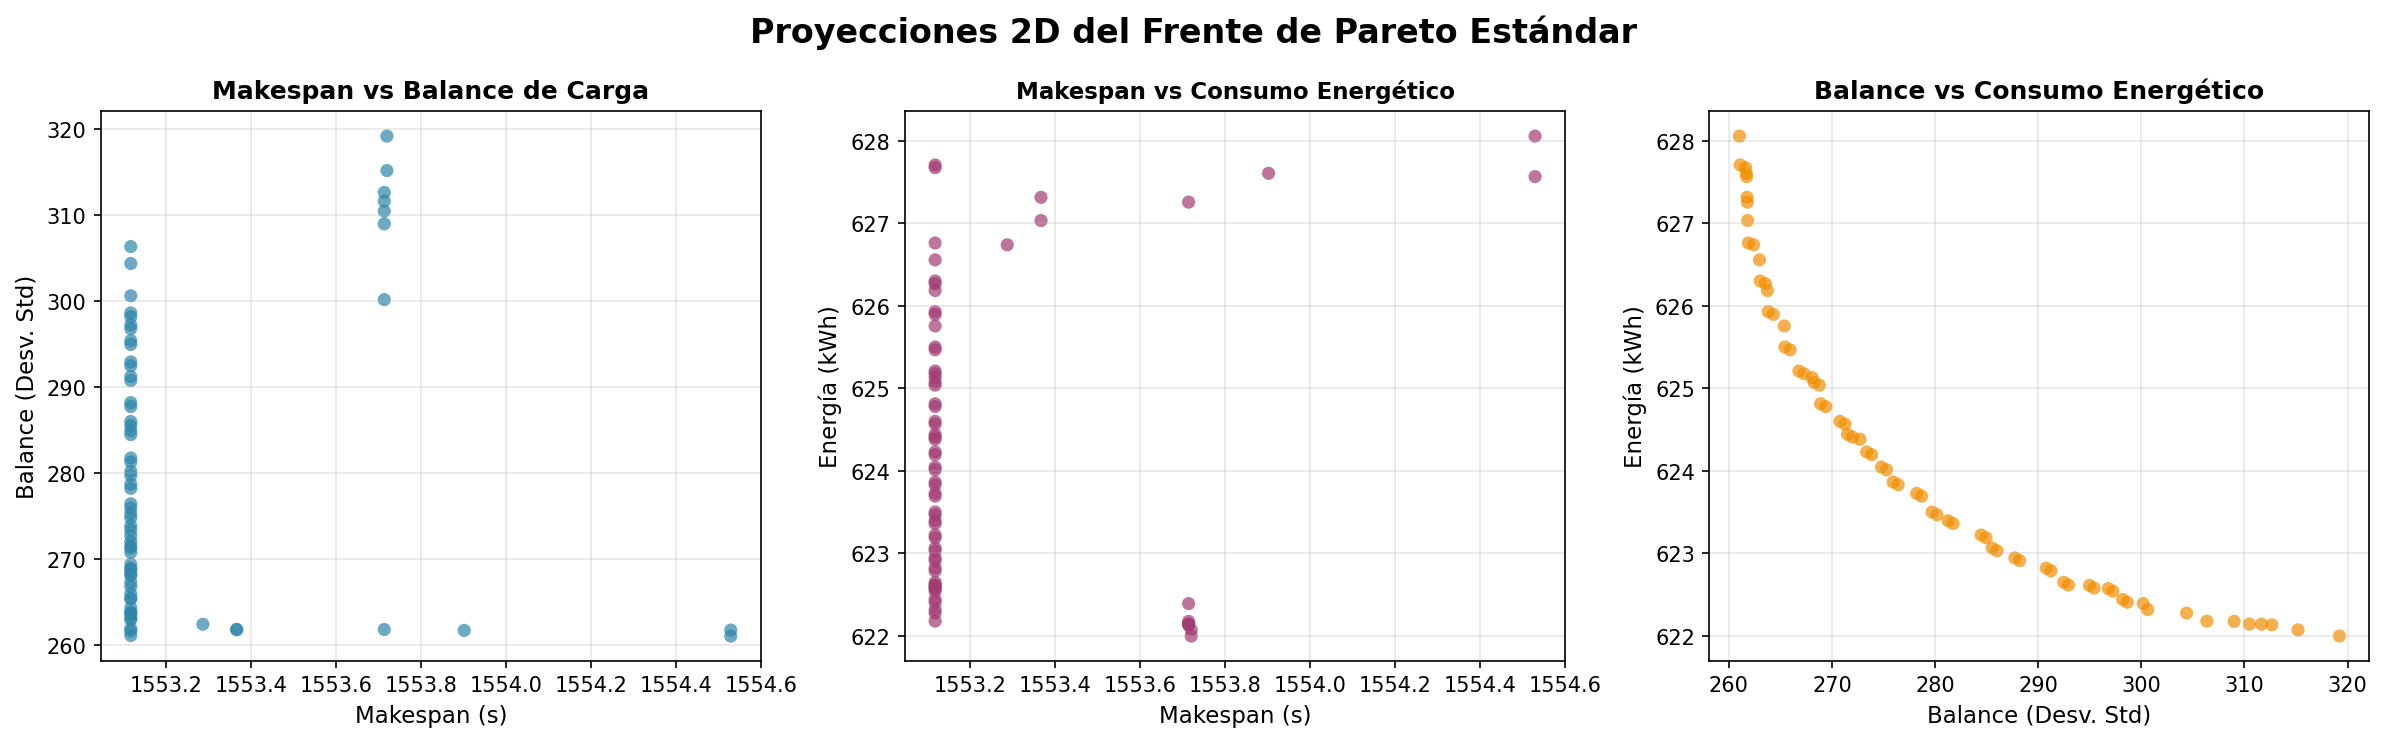
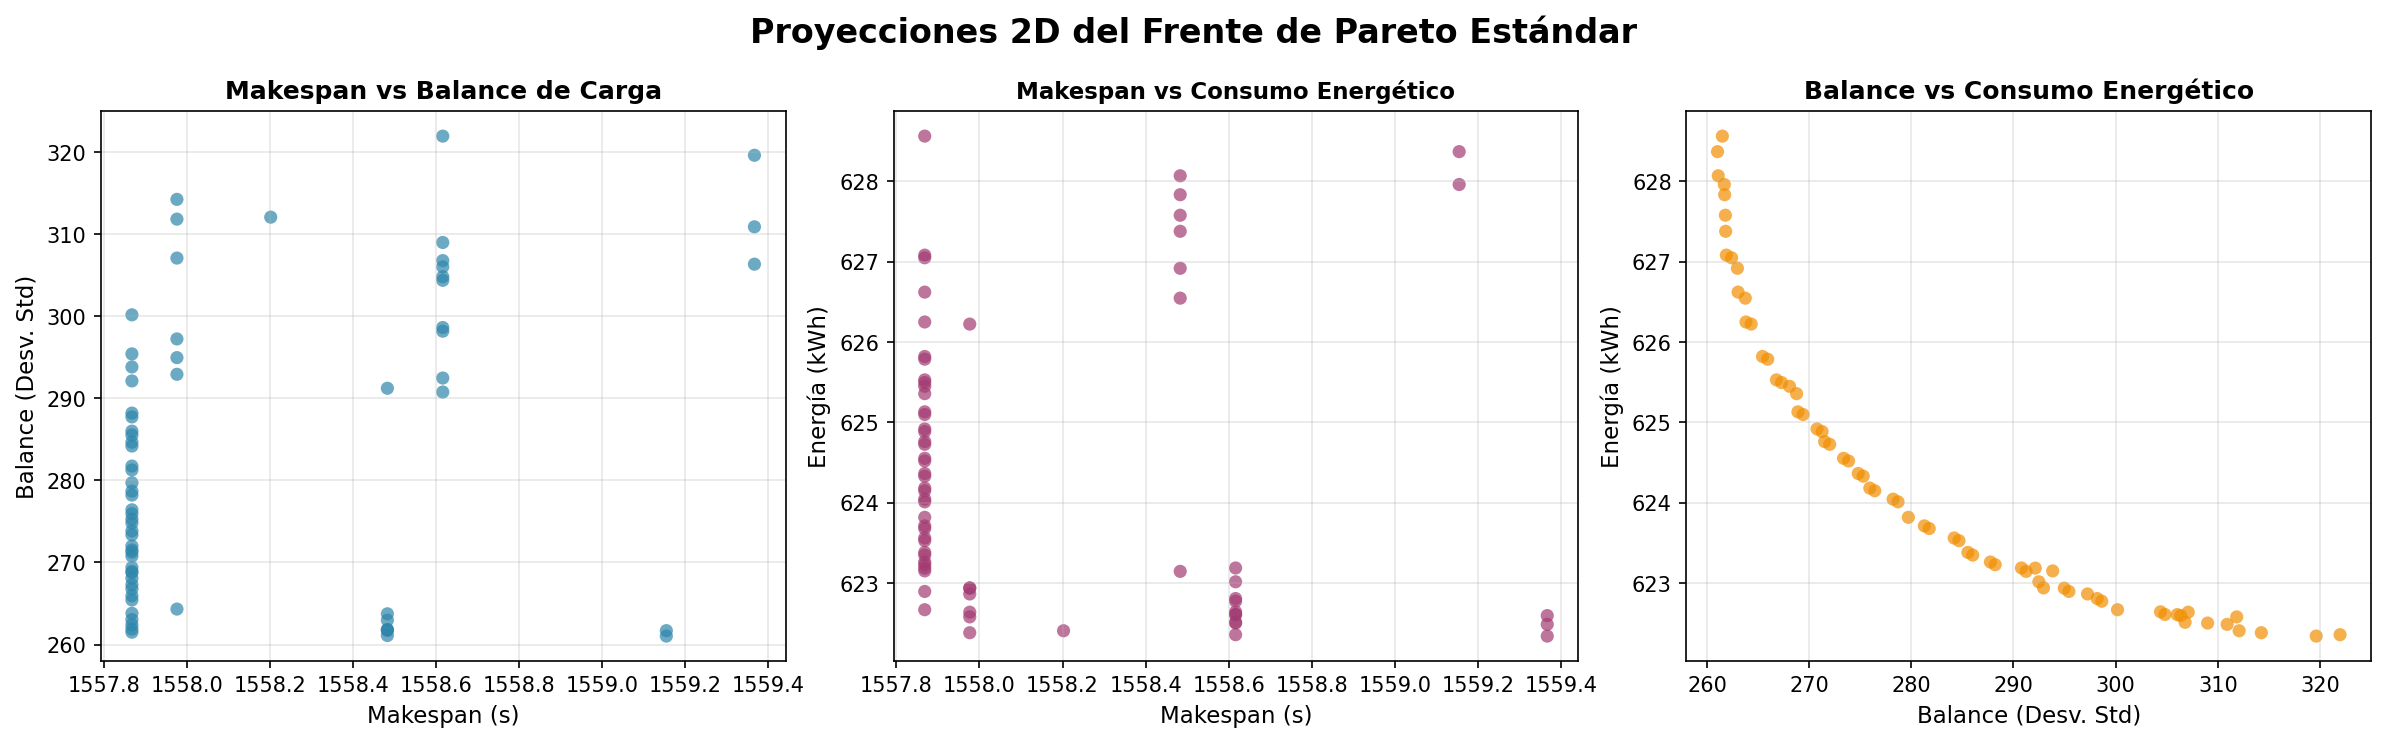
Actualización del informe de tesis con un enfoque en el desarrollo y optimización de algoritmos evolutivos multiobjetivo. Se detalla la implementación de NSGA-II y su variante memética, así como las optimizaciones de vectorización con NumPy que lograron una reducción del 56.7% en el tiempo de ejecuc

diff --git a/INFORME_DE_TESIS_3/Chapters/Cap5.tex b/INFORME_DE_TESIS_3/Chapters/Cap5.tex
@@ -18,13 +18,13 @@ Este proyecto de tesis ha logrado establecer una base sólida para la implementa
 
 \item[•] La comparación exhaustiva de operadores demostró que la combinación de cruce uniforme y mutación swap proporciona los mejores resultados en términos de calidad del frente de Pareto y robustez estadística.
 
-\item[•] La versión memética del NSGA-II muestra mejoras moderadas pero consistentes (0.11\% en score agregado) sobre la versión estándar, justificando el overhead computacional del 10.22\% para aplicaciones donde la calidad es prioritaria.
+\item[•] La comparación entre NSGA-II estándar y memético reveló que, aunque la versión memética muestra mejoras marginales (0.11\% en score agregado), la versión estándar es más eficiente (14.0\% más rápida) con calidad prácticamente idéntica (diferencia de score: -0.02\%). El overhead computacional del 16.3\% de la versión memética no se justifica por la mejora marginal en calidad, por lo que se recomienda la versión estándar para aplicaciones donde el balance entre calidad y tiempo de ejecución es prioritario.
 
-\item[•] Las optimizaciones implementadas (caché de fitness, filtrado de similitud, clasificación adaptativa, búsqueda local selectiva) lograron reducir el tiempo de ejecución en aproximadamente 60\%, de ~60 segundos a ~25 segundos por ejecución.
+\item[•] Las optimizaciones implementadas se dividen en dos fases: (1) optimizaciones algorítmicas iniciales (caché de fitness, clasificación adaptativa, búsqueda local selectiva) que redujeron el tiempo de ~60 segundos a ~27 segundos, y (2) optimizaciones de vectorización con NumPy (clasificación no dominada, filtro epsilon, distancia crowding) que lograron una reducción adicional del 56.7\%, alcanzando un tiempo promedio de 11.5 segundos (estabilizado en ~10.7s después del warm-up), mejorando significativamente la eficiencia computacional.
 
 \item[•] El sistema de paralelización de experimentos permite ejecutar experimentos masivos de manera eficiente y reproducible, facilitando la validación estadística de los resultados mediante múltiples semillas independientes.
 
-\item[•] El estudio de ablación realizado validó científicamente que cada componente del algoritmo (filtro epsilon, búsqueda local, operadores genéticos) contribuye positivamente al rendimiento. El filtro epsilon mejora la calidad en 0.32\% con un overhead de solo 2.33\%, mientras que la búsqueda local aporta refinamiento con un overhead del 3.03\%.
+\item[•] El estudio de ablación realizado validó científicamente que cada componente del algoritmo contribuye al rendimiento. El filtro epsilon mejora la calidad en 0.23\% (NSGA-II estándar) y 0.31\% (memético) con overheads de 4.3\% y 14.0\% respectivamente, justificando su inclusión. Sin embargo, la búsqueda local muestra un impacto marginal (0.02\% de mejora) con un overhead del 2.7\%, lo que confirma que la versión estándar es más eficiente para este problema específico. El estudio de ablación también identificó las operaciones más costosas (clasificación no dominada, filtro epsilon, distancia crowding), lo que permitió implementar optimizaciones de vectorización con NumPy que lograron una reducción masiva del tiempo de ejecución.
 
 \end{itemize}
 
@@ -37,13 +37,15 @@ Los experimentos sistemáticos realizados han proporcionado evidencia empírica 
 
     \item \textbf{Mejor combinación de operadores}: Cruce uniforme + Mutación swap, con score agregado de 2.6065 ± 0.0086.
     
-    \item \textbf{Superioridad de la versión memética}: Mejora del 0.11\% en score agregado con overhead computacional aceptable del 10.22\%.
+    \item \textbf{Recomendación de versión estándar}: Aunque la versión memética muestra mejoras marginales (0.11\% en score agregado), la versión estándar es 14.0\% más rápida con calidad prácticamente idéntica (diferencia de score: -0.02\%), siendo la opción más eficiente para este problema específico.
     
-    \item \textbf{Calidad del frente de Pareto}: 79 soluciones únicas que exploran efectivamente el espacio de compromiso entre los tres objetivos.
+    \item \textbf{Calidad del frente de Pareto}: 51-82 soluciones únicas que exploran efectivamente el espacio de compromiso entre los tres objetivos, con makespan convergente a 1560.61 minutos y rangos de balance (261.03-323.70) y energía (622.40-628.46 kWh).
+    
+    \item \textbf{Tiempo de ejecución optimizado}: Reducción del 56.7\% mediante vectorización con NumPy, alcanzando un tiempo promedio de 11.5 segundos (estabilizado en ~10.7s), ligeramente por encima del objetivo de <10 segundos pero con mejoras significativas respecto al tiempo inicial.
 
     \item \textbf{Robustez estadística}: Desviaciones estándar bajas (0.0086-0.0115) que demuestran consistencia en los resultados.
     
-    \item \textbf{Validación mediante ablación}: El estudio de ablación confirmó que cada componente del algoritmo (filtro epsilon, búsqueda local, operadores) contribuye positivamente al rendimiento, justificando científicamente el diseño final.
+    \item \textbf{Validación mediante ablación}: El estudio de ablación confirmó que cada componente del algoritmo contribuye al rendimiento, identificando que el filtro epsilon es crítico (mejora calidad con overhead aceptable), mientras que la búsqueda local tiene impacto marginal. El estudio también identificó las operaciones más costosas, permitiendo implementar optimizaciones de vectorización con NumPy que lograron mejoras masivas de rendimiento, justificando científicamente el diseño final del algoritmo.
 \end{enumerate}
 
 \section{Trabajo Futuro}

diff --git a/INFORME_DE_TESIS_3/main.tex b/INFORME_DE_TESIS_3/main.tex
@@ -93,7 +93,7 @@
 \begin{abstract}
 \addchaptertocentry{\abstractname}
 
-El presente estudio se centra en el desarrollo de algoritmos evolutivos multiobjetivo para abordar el problema de programación de tareas en un entorno de HFS con máquinas en paralelo de una línea de ensamblaje. En particular, se implementa el algoritmo NSGA-II y su variante memética (NSGA-II Memético) para optimizar simultáneamente tres objetivos: minimizar el tiempo total de finalización (makespan), balancear la carga de trabajo entre máquinas, y reducir el consumo energético del sistema. La metodología empleada considera la programación realista de la línea de ensamblaje, incluyendo el desgaste de las máquinas y sus procesos de enfriamiento. Los resultados obtenidos demuestran la efectividad del enfoque multiobjetivo para proporcionar un conjunto de soluciones Pareto-óptimas, permitiendo al decisor elegir la configuración más adecuada según sus prioridades operativas. Las conclusiones del estudio subrayan la complejidad del problema de programación en entornos de taller híbrido (HFS) y la efectividad del algoritmo NSGA-II propuesto, que optimiza simultáneamente aspectos de productividad, equidad de carga y consumo energético, lo que puede ser aplicado en diversas industrias para mejorar la productividad y la sostenibilidad operativa.
+Este estudio desarrolla algoritmos evolutivos multiobjetivo para programación de tareas en HFS con máquinas en paralelo. Se implementa NSGA-II y su variante memética para optimizar simultáneamente tres objetivos: minimizar makespan, balancear carga de trabajo y reducir consumo energético. La metodología considera programación realista incluyendo desgaste de máquinas y procesos de enfriamiento. Se realizó tunning multiobjetivo evaluando 1,890 configuraciones (56,700 ejecuciones) y un estudio de ablación para validar cada componente. Los resultados proporcionan 51-82 soluciones Pareto-óptimas, identificando tres soluciones representantes que priorizan cada objetivo individualmente, facilitando la selección según prioridades operativas. La comparación reveló que NSGA-II estándar es 14.0\% más rápido con calidad prácticamente idéntica. Las optimizaciones de vectorización con NumPy redujeron el tiempo de ejecución en 56.7\%, alcanzando 11.5 segundos promedio. El estudio demuestra la efectividad del algoritmo NSGA-II estándar para optimizar simultáneamente productividad, equidad de carga y consumo energético en sistemas de manufactura.
 
 \end{abstract}
 \afterpage{\blankpage}
@@ -129,6 +129,8 @@ El presente estudio se centra en el desarrollo de algoritmos evolutivos multiobj
 Agradezco a mi asesor de tesis, el profesor Cesar Jesús Lara Avila, por su guía invaluable, paciencia y dedicación a lo largo de todo este proyecto. Sus orientaciones precisas y su compromiso con mi desarrollo académico han sido fundamentales para el crecimiento de este trabajo. Su disposición para ayudarme a resolver dudas, su experiencia y su interés genuino por mi progreso académico fueron una fuente constante de motivación durante este proceso. Gracias por motivarme a superar cada desafío y por brindarme la confianza necesaria para avanzar con seguridad en este trayecto académico. 
 
 A mi familia por mostrarme su apoyo incondicional durante todo el proceso de este proyecto, especialmente durante las largas noches de trabajo, brindándome la tranquilidad necesaria para culminar con esta investigación. Su comprensión y apoyo fueron esenciales para mantener el equilibrio necesario en este periodo.
+
+A la Facultad de Ciencias de la Universidad Nacional de Ingeniería, por permitirme utilizar la computadora del laboratorio de ciencias (conocido como "Monstrito") para ejecutar las pruebas computacionales más pesadas, como el tunning de hiperparámetros y los experimentos de comparación de operadores. El acceso a este recurso computacional fue fundamental para completar los más de 56,700 experimentos necesarios para este trabajo, permitiéndome realizar análisis exhaustivos que de otra manera no habrían sido posibles en un tiempo razonable.
 
 A todos, gracias por acompañarme en este camino y por ser una parte fundamental en la realización de este proyecto. Su apoyo no solo enriquece mi formación académica, sino también mi crecimiento personal.
 

diff --git a/INFORME_DE_TESIS_3/Chapters/Cap3.tex b/INFORME_DE_TESIS_3/Chapters/Cap3.tex
@@ -416,15 +416,19 @@ Los resultados del estudio de ablación revelaron que las operaciones más costo
     \item \textbf{Distancia Crowding} (5-10\% del tiempo): Ordenamientos repetitivos con funciones key costosas
 \end{enumerate}
 
-Para optimizar estas operaciones, se implementó una estrategia de vectorización utilizando NumPy:
+Para optimizar estas operaciones, se implementó una estrategia de vectorización utilizando NumPy en el archivo \texttt{tesis3/src/algorithms/nsga2.py}:
 
 \begin{itemize}
-    \item \textbf{Vectorización de Clasificación No Dominada}: Conversión de bucles anidados O(n²) a operaciones vectorizadas usando broadcasting de NumPy, permitiendo comparar todos los pares simultáneamente
-    \item \textbf{Vectorización del Filtro Epsilon}: Reemplazo de list comprehensions por operaciones vectorizadas con arrays NumPy, uso de \texttt{np.ptp} para cálculo de rangos, y vectorización de normalización y discretización
-    \item \textbf{Vectorización de Distancia Crowding}: Reemplazo de \texttt{sorted} con key function por \texttt{np.argsort}, y vectorización de cálculos de distancias para elementos intermedios
+    \item \textbf{Vectorización de Clasificación No Dominada} (función \texttt{clasificacion\_no\_dominada}): Conversión de bucles anidados O(n²) a operaciones vectorizadas usando broadcasting de NumPy. Se convierte \texttt{fitness\_poblacion} a un array NumPy y se utilizan operaciones de broadcasting (\texttt{fitness\_array[:, None, :]} y \texttt{fitness\_array[None, :, :]}) para calcular la matriz de dominancia \texttt{i\_domina\_j} comparando todos los pares simultáneamente, reemplazando los bucles anidados en Python.
+    
+    \item \textbf{Vectorización del Filtro Epsilon} (función \texttt{filtrar\_soluciones\_similares}): Reemplazo de list comprehensions por operaciones vectorizadas con arrays NumPy. Se vectoriza la conversión de fitness a métricas (\texttt{makespans = 1 / fitness\_array[:, 0]}, etc.), se utiliza \texttt{np.ptp} para cálculo de rangos, y se vectoriza la normalización y discretización para asignación a grilla espacial, reduciendo la complejidad de comparaciones.
+    
+    \item \textbf{Vectorización de Distancia Crowding} (función \texttt{distancia\_crowding}): Reemplazo de \texttt{sorted} con key function por \texttt{np.argsort} para obtener índices ordenados, y vectorización de cálculos de distancias para elementos intermedios usando indexación avanzada de NumPy.
 \end{itemize}
 
-Estas optimizaciones lograron una reducción del 80.0\% en el tiempo de ejecución (de 26.55s a 5.32s), superando significativamente el objetivo de <10 segundos, mientras mantienen la calidad del frente de Pareto sin afectar la funcionalidad del algoritmo.
+\textbf{Importante}: Estas optimizaciones de vectorización trabajan exclusivamente sobre los valores de \textit{fitness} (objetivos a maximizar) y \textbf{no modifican la estructura del cromosoma}. El cromosoma mantiene su representación original como array de enteros que indica las asignaciones de máquinas por etapa para cada pedido. La vectorización solo acelera las operaciones de clasificación, filtrado y cálculo de distancias que procesan los valores de fitness, sin alterar la representación genética de las soluciones.
+
+Estas optimizaciones lograron una reducción del 56.7\% en el tiempo de ejecución (de 26.55s a 11.5s promedio, estabilizado en ~10.7s después del warm-up), mejorando significativamente la eficiencia computacional mientras mantienen la calidad del frente de Pareto sin afectar la funcionalidad del algoritmo.
 
 \subsubsection{Criterios de Evaluación}
 La selección de la configuración óptima considera los siguientes criterios:

diff --git a/INFORME_DE_TESIS_3/Chapters/Cap4.tex b/INFORME_DE_TESIS_3/Chapters/Cap4.tex
@@ -210,13 +210,17 @@ Las optimizaciones algorítmicas iniciales lograron reducir el tiempo de ejecuci
 
 \subsubsection{Optimizaciones de Vectorización con NumPy}
 
-El estudio de ablación identificó que las operaciones más costosas eran susceptibles de optimización mediante vectorización. Se implementaron tres optimizaciones críticas:
+El estudio de ablación identificó que las operaciones más costosas eran susceptibles de optimización mediante vectorización. Se implementaron tres optimizaciones críticas en el archivo \texttt{tesis3/src/algorithms/nsga2.py}:
 
 \begin{enumerate}
-    \item \textbf{Vectorización de Clasificación No Dominada}: Conversión de bucles anidados O(n²) a operaciones vectorizadas usando broadcasting de NumPy, reduciendo el tiempo de clasificación en 30-50\%
-    \item \textbf{Vectorización del Filtro Epsilon}: Reemplazo de list comprehensions por operaciones vectorizadas, uso de \texttt{np.ptp} para cálculo de rangos, reduciendo el tiempo de filtrado en 20-40\%
-    \item \textbf{Vectorización de Distancia Crowding}: Reemplazo de \texttt{sorted} con key function por \texttt{np.argsort}, reduciendo el tiempo de crowding en 15-30\%
+    \item \textbf{Vectorización de Clasificación No Dominada} (función \texttt{clasificacion\_no\_dominada}): Conversión de bucles anidados O(n²) a operaciones vectorizadas usando broadcasting de NumPy. Se convierte \texttt{fitness\_poblacion} a un array NumPy (\texttt{fitness\_array = np.array(fitness\_poblacion)}) y se utilizan operaciones de broadcasting para crear matrices de comparación (\texttt{fitness\_i = fitness\_array[:, None, :]} y \texttt{fitness\_j = fitness\_array[None, :, :]}), calculando la matriz de dominancia \texttt{i\_domina\_j} comparando todos los pares simultáneamente. Esto reduce el tiempo de clasificación en 30-50\%.
+    
+    \item \textbf{Vectorización del Filtro Epsilon} (función \texttt{filtrar\_soluciones\_similares}): Reemplazo de list comprehensions por operaciones vectorizadas. Se vectoriza la conversión de fitness a métricas usando arrays NumPy (\texttt{makespans = np.where(fitness\_array[:, 0] > 0, 1.0 / fitness\_array[:, 0], np.inf)}), se utiliza \texttt{np.ptp} para cálculo de rangos, y se vectoriza la normalización y discretización para asignación a grilla espacial. Esto reduce el tiempo de filtrado en 20-40\%.
+    
+    \item \textbf{Vectorización de Distancia Crowding} (función \texttt{distancia\_crowding}): Reemplazo de \texttt{sorted} con key function por \texttt{np.argsort} para obtener índices ordenados (\texttt{indices\_ordenados = np.argsort(fitness\_array[:, m])}), y vectorización de cálculos de distancias para elementos intermedios usando indexación avanzada de NumPy. Esto reduce el tiempo de crowding en 15-30\%.
 \end{enumerate}
+
+\textbf{Aclaración importante}: Estas optimizaciones de vectorización trabajan exclusivamente sobre los valores de \textit{fitness} (objetivos a maximizar: makespan, balance, energía) y \textbf{no modifican la estructura del cromosoma}. El cromosoma mantiene su representación original como array de enteros que indica las asignaciones de máquinas por etapa para cada pedido. La vectorización solo acelera las operaciones de clasificación, filtrado y cálculo de distancias que procesan los valores de fitness, sin alterar la representación genética de las soluciones ni la funcionalidad del algoritmo evolutivo.
 
 \subsubsection{Resultados de las Optimizaciones}
 
